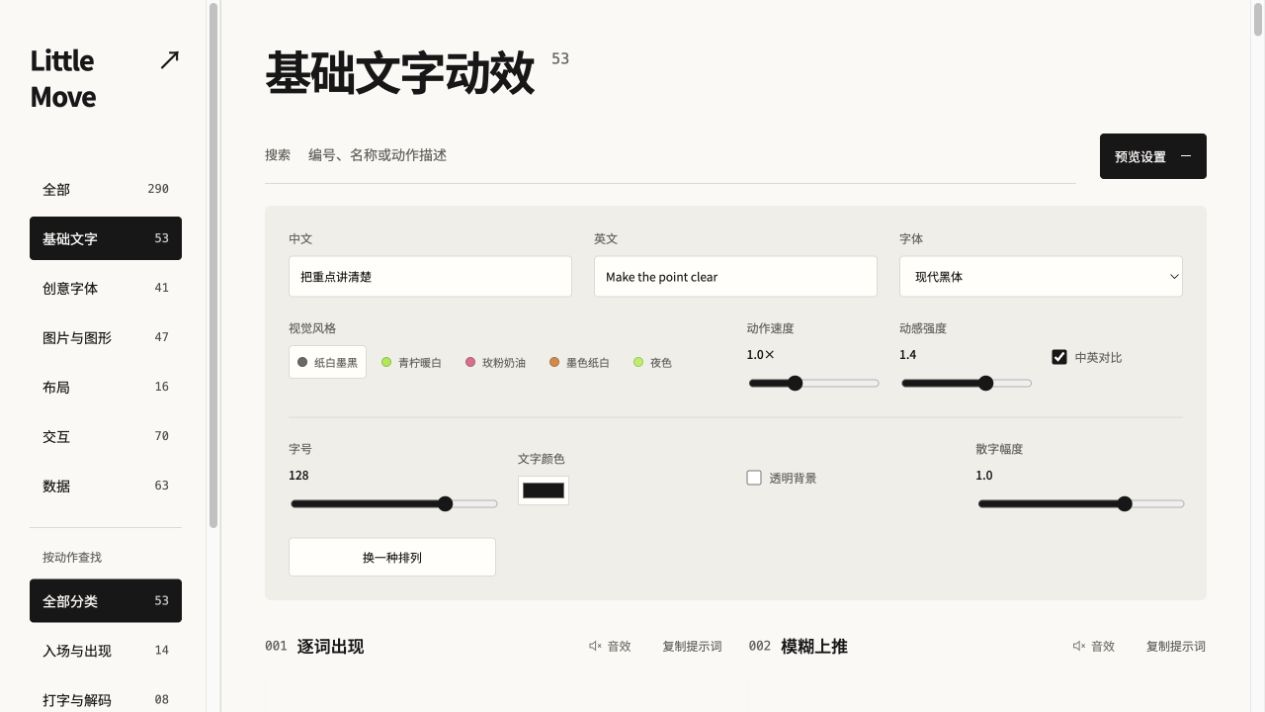
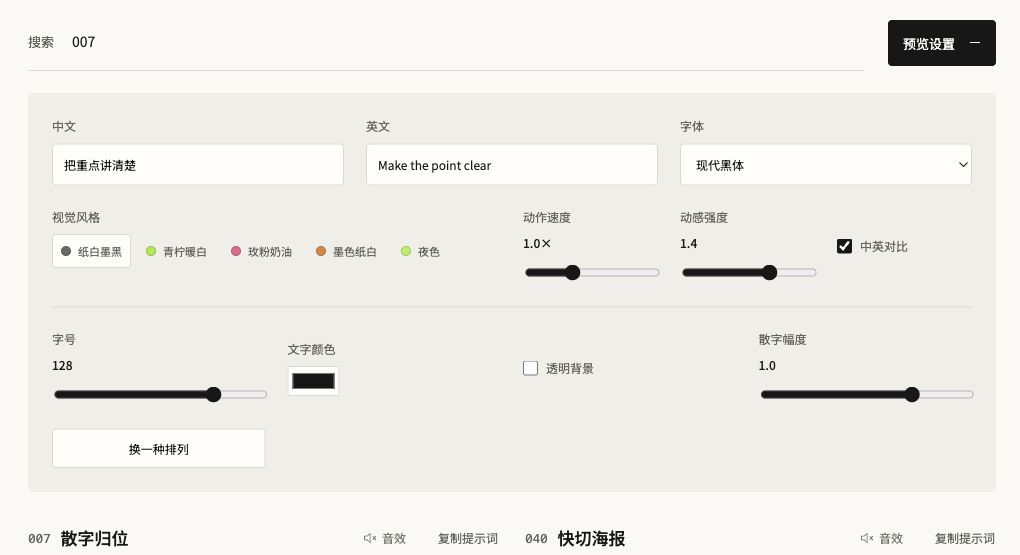
Add real screenshots for sound, prompt copying, and preview settings

diff --git a/README.md b/README.md
@@ -37,11 +37,17 @@
 
 ### 三个顺手的小功能
 
-| 功能 | 怎么用 |
-| --- | --- |
-| **给动效配声音** | 点卡片标题旁的“音效”，选择推荐音色或其他音色，调节音量，也可以先单独试听。默认静音，同一时间只开启一张卡片的音效，方便比较动作与声音的搭配。 |
-| **一键复制动效提示词** | 点“复制提示词”，一次拿到**固定编号、名称和简短动作说明**，成功后按钮会显示“已复制 ✓”。可以直接发给 AI 助手或同事，继续补充自己的内容与风格要求。 |
-| **边看边调预览** | 点卡片的“调整参数”，会打开顶部“预览设置”，切到该动效对应的参数。文字、字体、颜色、速度，以及部分效果的图片、数据或动作版本，都可以按需调整后查看效果。 |
+#### 给动效配声音
+
+点卡片标题旁的“音效” → 选择音色 → 调节音量；点“试听音色”可以先听一遍。默认静音，同一时间只开启一张卡片的音效。
+
+![音效操作：展开卡片的音效面板，选择推荐音色、调节音量并试听](docs/images/sound-options.png)
+
+#### 一键复制动效提示词
+
+点“复制提示词”，按钮显示 **“已复制 ✓”** 就代表成功。粘贴后会得到**固定编号、名称和简短动作说明**，可以直接发给 AI 助手或同事，再补充自己的内容与风格要求。
+
+![复制操作：点击复制提示词后，卡片右上角显示已复制成功反馈](docs/images/copy-prompt.png)
 
 比如，053 卡片复制出来的内容是：
 
@@ -49,6 +55,12 @@
 053 便当格展开
 主内容格展开，折线沿数据逐点生长，数字累加、百分比与进度同步变化，再收回网格。
 ```
+
+#### 边看边调预览
+
+点目标卡片的“调整参数”，会打开顶部“预览设置”，切到该动效支持的参数。文字、字体、颜色、速度，以及部分效果的图片、数据或动作版本，都可以边调边看。
+
+![预览设置：修改中英文本、字体、配色、动作速度、强度及该动效专属参数](docs/images/settings.png)
 
 ## 效果一览
 
@@ -68,11 +80,9 @@
 | 数字滚动、图表生长、占比进度、数据重排与矩阵显现。 | 聆听、思考、说话等状态，以及波形与播放进度。 |
 
 <details>
-<summary>再看基础文字与参数设置</summary>
+<summary>再看基础文字</summary>
 
 ![基础文字动效](docs/images/text.png)
-
-![可调整参数](docs/images/settings.png)
 
 </details>
 

diff --git a/docs/GETTING-STARTED.md b/docs/GETTING-STARTED.md
@@ -37,6 +37,8 @@ npm run dev -- --port 3108
 - **复制提示词**：复制的是“编号 + 名称 + 简短动作说明”，成功后显示“已复制 ✓”。它是描述动作的文字，不是直接复制组件源码；可以粘贴给 AI 助手，再补充你的文案、配色和使用场景。
 - **预览设置**：可从页面顶部打开；也可以先点目标卡片的“调整参数”，直接查看该效果支持的设置。基础文字可调整中英文本、字体、配色、速度等；创意字形、图片与数据 Demo 使用各自的参数。以面板实际提供的选项为准。
 
+这三个功能的[真实操作截图见 README](../README.md#三个顺手的小功能)。
+
 ## 用于剪辑与二次开发
 
 网页预览和 Remotion 视频组合共用按帧计算的动作逻辑。手动交互用于网页体验；视频渲染使用预设自动演示过程，不会录制鼠标操作。
